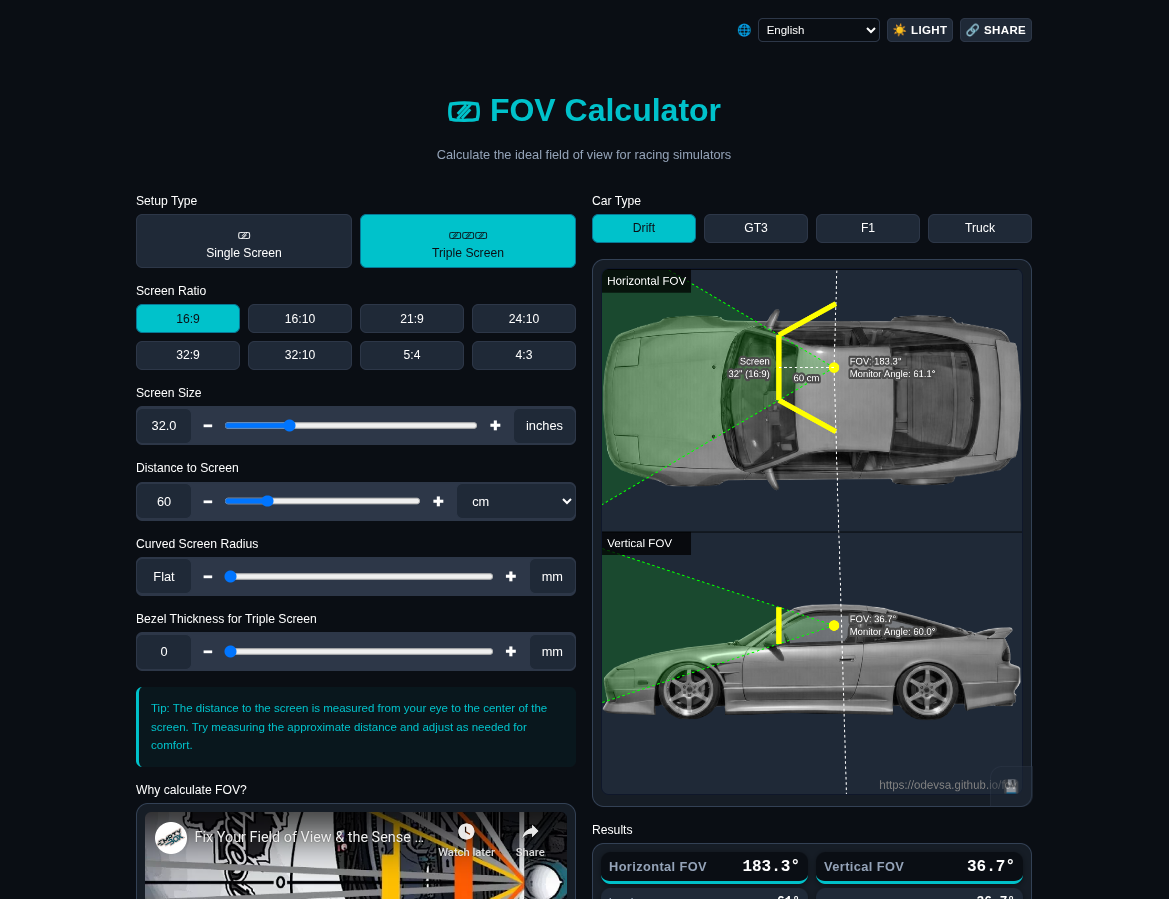
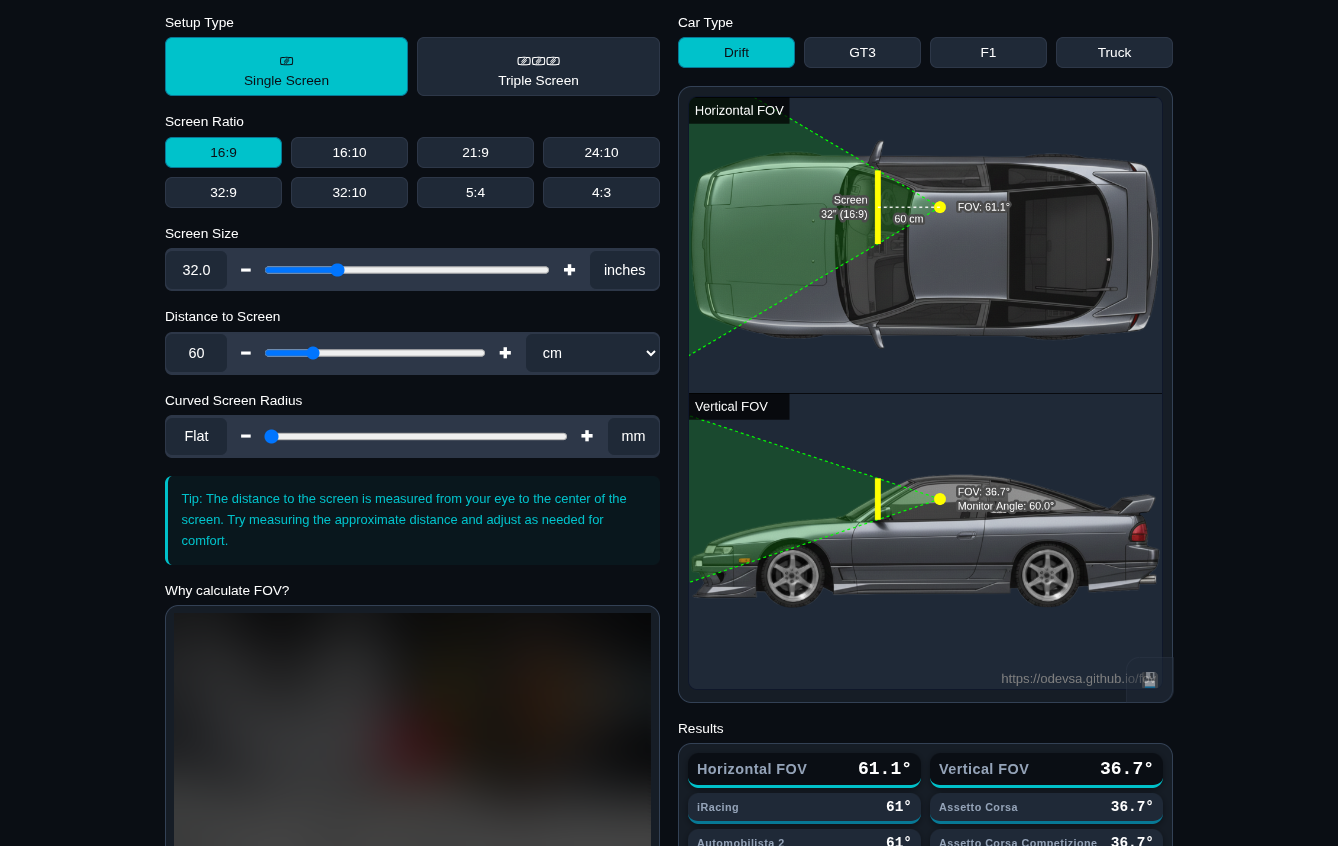
Change car images

diff --git a/js/constants.js b/js/constants.js
@@ -73,38 +73,38 @@ const CARS = {
     car: { width: 169, height: 129, length: 452 },
     scale: 1.75,
     offset: {
-      horizontal: { x: 250, y: 120, shift: 0 },
-      vertical: { x: 250, y: 105, shift: 0 },
+      horizontal: { x: 240, y: 121, shift: 0 },
+      vertical: { x: 240, y: 105, shift: 0 },
     },
   },
   gt3: {
     ref: "gt3",
     image: `img/gt3.png`,
-    car: { width: 185.2, height: 127.9, length: 457.3 },
+    car: { width: 185.2, height: 131.5, length: 457.3 },
     scale: 1.725,
     offset: {
-      horizontal: { x: 250, y: 63, shift: 0 },
-      vertical: { x: 250, y: 100, shift: 0 },
+      horizontal: { x: 255, y: 58, shift: 0 },
+      vertical: { x: 255, y: 105, shift: 0 },
     },
   },
   f1: {
     ref: "f1",
     image: `img/f1.png`,
     scale: 1.45,
-    car: { width: 190, height: 115, length: 545.0 },
+    car: { width: 197, height: 117, length: 545.0 },
     offset: {
-      horizontal: { x: 270, y: 95, shift: 0 },
-      vertical: { x: 270, y: 85, shift: 0 },
+      horizontal: { x: 287.5, y: 97.5, shift: 0 },
+      vertical: { x: 287.5, y: 75, shift: 0 },
     },
   },
   truck: {
     ref: "truck",
     image: `img/truck.png`,
     scale: 1.25,
-    car: { width: 247, height: 354, length: 630 },
+    car: { width: 275, height: 370, length: 635 },
     offset: {
-      horizontal: { x: 110, y: 80, shift: 250 },
-      vertical: { x: 110, y: 230, shift: 0 },
+      horizontal: { x: 120, y: 85, shift: 250 },
+      vertical: { x: 120, y: 240, shift: 0 },
     },
   },
 };
